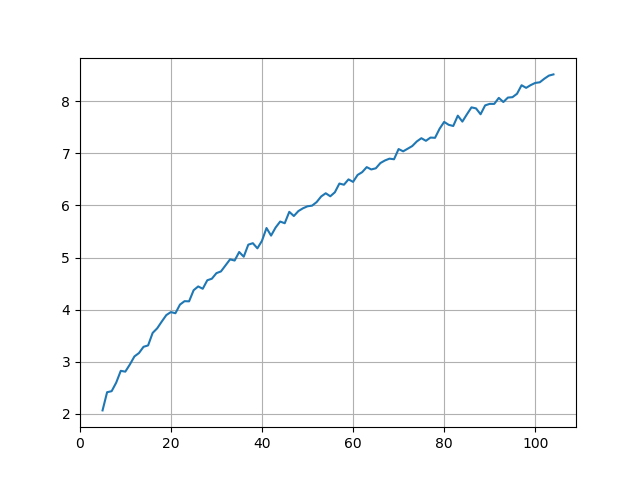
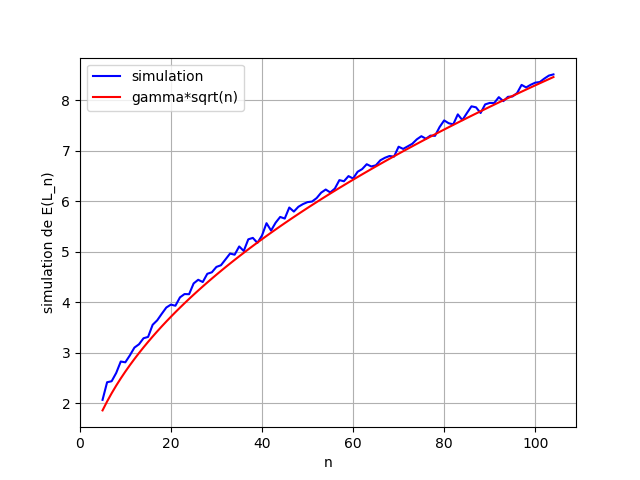
added simulation of law

Changed region(s): [[0.0625, 0.125, 0.9062, 0.875], [0.0938, 0.7188, 0.125, 0.7812], [0.0938, 0.8438, 0.125, 0.875]]

diff --git a/law.py b/law.py
@@ -2,21 +2,50 @@ from algo import *
 from config import PATH_LAW_SALESMAN
 from copy import deepcopy
 from matplotlib import pyplot as plt
+from math import sqrt
 
 
 def savePlot(path):
     fichier = open(path, 'r')
     X = []
     Y = []
+    Z = []
     for line in fichier:
         M = deepcopy(line.strip().split('\t'))
         X.append(float(M[0]))
         Y.append(float(M[1]))
+        Z.append(0.83*sqrt(float(M[0])))
 
     fichier.close()
-    plt.plot(X, Y)
+    plt.plot(X, Y, color="blue")
+    plt.plot(X, Z, color="red")
+
+    plt.xlabel('n')
+    plt.ylabel('simulation de E(L_n)')
+    plt.legend(('simulation', 'gamma*sqrt(n)'))
     plt.grid()
     plt.savefig(path+".png")
+    plt.show()
+
+def findGamma(path):
+    fichier = open(path, 'r')
+    X = []
+    Y = []
+    Z = []
+    for line in fichier:
+        M = deepcopy(line.strip().split('\t'))
+        X.append(float(M[0]))
+        Y.append(float(M[1])/sqrt(float(M[0])))
+
+    fichier.close()
+    plt.plot(X, Y, color="blue")
+    print(Y[-1])
+
+    plt.xlabel('n')
+    plt.ylabel('simulation de E(L_n)/sqrt(n)')
+    plt.ylim(0.5, 1.25)
+    plt.grid()
+    plt.savefig(path+"gamma.png")
     plt.show()
 
 
@@ -48,5 +77,6 @@ def MeanLaw(path="./data/solution/lawmean1.txt", nb_iter=40, nb_acquisition=200)
 
 if __name__ == "__main__":
 
-    MeanLaw()
-    # savePlot("./data/solution/lawmean.txt")
+    # MeanLaw()
+    # findGamma("./data/solution/lawmean.txt")
+    savePlot("./data/solution/lawmean.txt")
